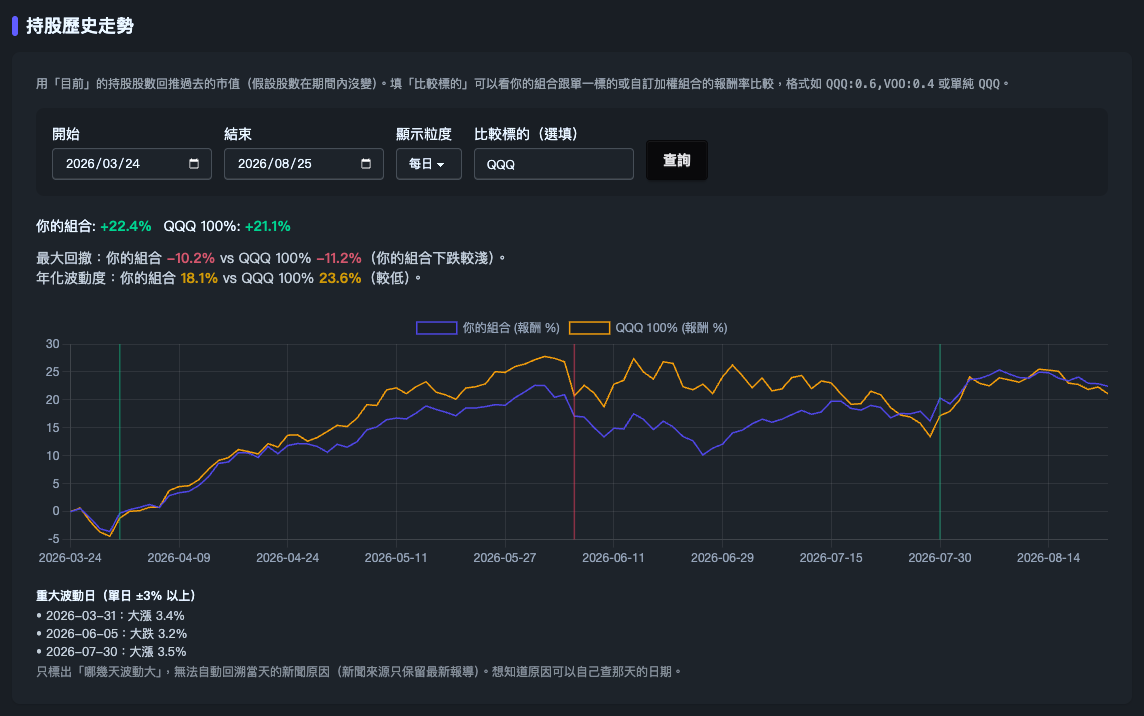
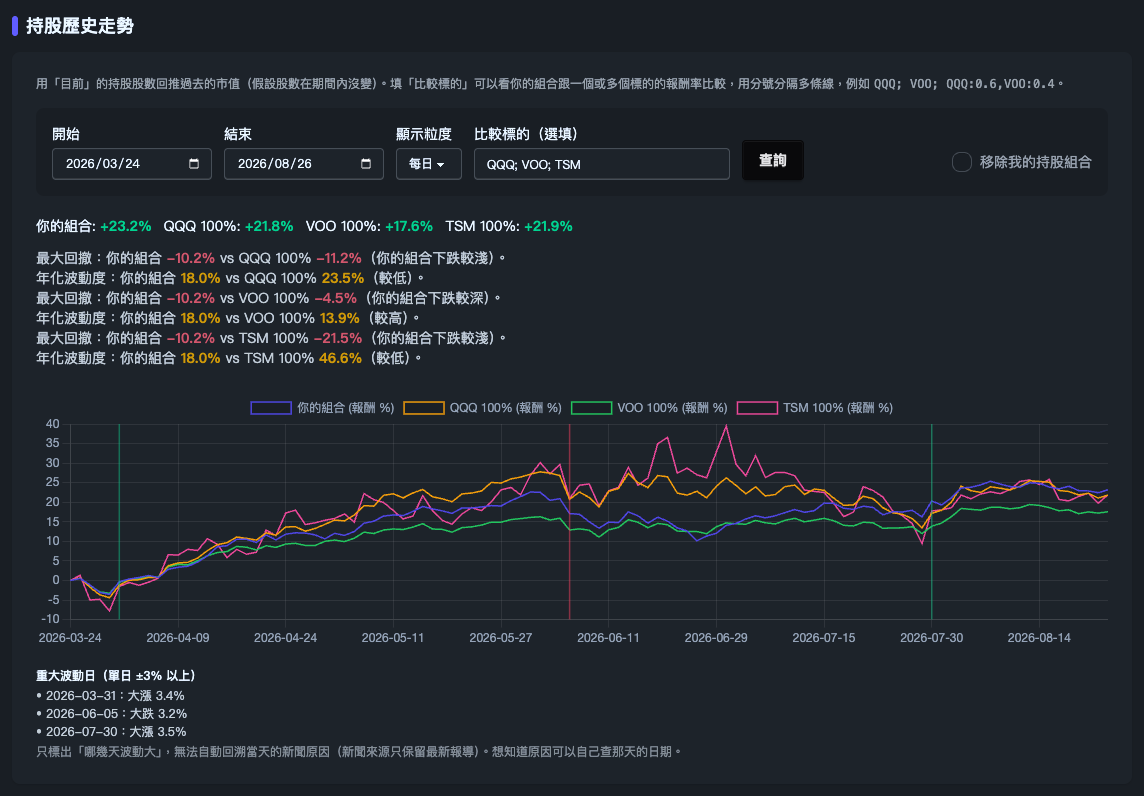
Refresh README screenshots to reflect current UI, add changelog of features added since MVP

diff --git a/README.md b/README.md
@@ -1,6 +1,6 @@
 # StockOrbit
 
-一個個人用的 Firstrade 投資組合追蹤網站：自動同步持股、依配置給出建議、對任意再平衡策略跑歷史回測，全部透過一個零建置流程的網頁儀表板操作。
+一個個人用的 Firstrade 投資組合追蹤網站：自動同步持股（含現金）、依配置給出建議、對任意再平衡策略跑歷史回測，全部透過一個零建置流程的網頁儀表板操作。
 
 ## 畫面
 
@@ -16,31 +16,32 @@
 
 ![持股與配置：持股表格、配置圓餅圖、建議、近期市場動態、目標配置](docs/screenshot-holdings.png)
 
-- 持股表格：代號、股數、買入均價、現價、市值，加上「目前佔比」跟「目標佔比」並排，偏離超過 5% 會標紅，跟下面的「目標配置」是同一份資料、改了會一起動；配置圓餅圖在表格下方，hover 會顯示每檔的市值
+- 持股表格：代號、股數、買入均價、現價（漲跌用綠/紅標示）、漲跌幅、市值，加上「目前佔比」跟「目標佔比」並排，偏離超過 5% 會標紅加粗；跟下面的「目標配置」是同一份資料、改了會一起動。配置圓餅圖在表格下方，hover 會顯示每檔的市值
 - 「建議」：依集中度跟配置偏離規則列出的提醒，不是投資建議
 - 「近期市場動態」：按查詢會抓每檔持股最近的大漲大跌（規則判斷）跟最新新聞標題（原文列出，不做利多利空判斷）
-- 「目標配置」：可以新增/編輯/刪除每檔的目標權重，權重總和要是 100%，輸入代號時有自動完成建議
+- 「目標配置」：每列同時顯示目前跟目標佔比，方便對照；可以新增/編輯/刪除每檔的目標權重，權重總和要是 100%，輸入代號時有自動完成建議
 
 ### 持股歷史走勢
 
-![持股歷史走勢：報酬率比較圖、最大回撤與波動度分析、重大波動日標註](docs/screenshot-history.png)
+![持股歷史走勢：多條比較線、最大回撤與波動度分析、重大波動日標註](docs/screenshot-history.png)
 
-用「目前」的股數回推過去市值，可選每日／每月／每季／每年顯示。填「比較標的」（可以是單一標的，或像 `QQQ:0.6,VOO:0.4` 這樣的加權組合，輸入代號時有自動完成建議）會切換成報酬率比較，並算出最大回撤跟年化波動度的比較文字。圖上的直線標出單日 ±3% 以上的「重大波動日」，滑鼠移過去會顯示當天漲跌幅——只標出哪天波動大，沒辦法自動回溯當天的新聞原因（yfinance 的新聞功能只保留最新報導，查不到歷史上某一天發生了什麼事）。
+用「目前」的股數回推過去市值，可選每日／每月／每季／每年顯示。填「比較標的」可以看你的組合跟一個或多個標的的報酬率比較，用分號分隔多條線，例如 `QQQ; VOO; QQQ:0.6,VOO:0.4`。支援任意 Yahoo Finance 代號，包括台股（例如 `0050.TW`、`00631L.TW`）。每條比較線都會算出自己的最大回撤跟年化波動度，跟你的組合逐一列出比較文字。圖上的直線標出單日 ±3% 以上的「重大波動日」，滑鼠移過去會顯示當天漲跌幅。只標出哪天波動大，沒辦法自動回溯當天的新聞原因（yfinance 的新聞功能只保留最新報導，查不到歷史上某一天發生了什麼事）。
+
+右上角「移除我的持股組合」勾選後，比較線不再受限於你持股裡最晚上市那一檔的起始日期（例如比特幣現貨 ETF 通常 2024 年才上市），可以看比較標的完整的歷史。
 
 ### 再平衡策略回測
 
-![再平衡策略回測：投組表現走勢圖、再平衡日與最大回撤標註](docs/screenshot-backtest.png)
+![再平衡策略回測：多條比較基準、不再平衡對照線、重大波動日標註](docs/screenshot-backtest.png)
 
-圖上除了投組跟比較基準，選了再平衡頻率時還會多畫一條「不再平衡」的虛線，直接看再平衡本身帶來的差異，不用手動切換重跑兩次。
-
-用「目標配置」的權重模擬過去表現，可選再平衡頻率，比較基準預設 SPY、同樣支援自訂加權組合。圖上虛線標出每次再平衡發生的日期，陰影區塊是最大回撤發生的區間。不含手續費/稅金，僅供參考，不是真實交易模擬。
+用「目標配置」的權重模擬過去表現，可選再平衡頻率。「比較基準」預設 SPY，同樣支援分號分隔的多條線跟任意加權組合（也支援台股）。圖上虛線標出每次再平衡發生的日期，陰影區塊是最大回撤發生的區間，選了再平衡頻率時還會多畫一條「不再平衡」的對照虛線，直接看再平衡本身帶來的差異。跟持股歷史走勢一樣有「移除我的持股組合」選項跟重大波動日標註。不含手續費/稅金，僅供參考，不是真實交易模擬。
 
 ## 功能
 
-- **持股同步**：透過非官方 Firstrade API 自動登入（支援 TOTP 兩步驟驗證），抓取目前帳戶持倉並存成歷史快照
-- **配置建議**：依目前持股計算集中度風險，並比對自訂的目標配置，列出偏離提醒
-- **持股歷史走勢**：用「目前」的股數回推過去市值，可選每日／每月／每季／每年顯示；也可以填一個比較標的或加權組合（如 `QQQ:0.6,VOO:0.4`），看你的組合對比大盤或任意基準的報酬率，並標出單日大漲大跌的節點
-- **再平衡策略回測**：用目標配置模擬過去表現，可選再平衡頻率（不再平衡／每月／每季／每年），比較基準同樣支援自訂加權組合；圖表會標出每次再平衡發生的日期跟最大回撤區間，並多畫一條「不再平衡」的對照線
+- **持股同步**：透過非官方 Firstrade API 自動登入（支援 TOTP 兩步驟驗證），抓取目前帳戶持倉（含未投入的現金）並存成歷史快照
+- **配置建議**：依目前持股計算集中度風險，並比對自訂的目標配置，列出偏離提醒（現金不計入集中度風險）
+- **持股歷史走勢**：用「目前」的股數回推過去市值，可選每日／每月／每季／每年顯示；「比較標的」支援多條線（分號分隔）、加權組合、任意市場代號（含台股），並算出最大回撤/年化波動度比較，標出單日大漲大跌的節點
+- **再平衡策略回測**：用目標配置模擬過去表現，可選再平衡頻率（不再平衡／每月／每季／每年），比較基準同樣支援多條線與加權組合；圖表標出每次再平衡發生的日期、最大回撤區間、重大波動日，並多畫一條「不再平衡」的對照線
+- **移除持股組合比較**：兩個走勢圖都可以只看比較標的本身，不被你持股裡最晚上市的一檔限制住最早的可比較日期
 - **近期市場動態**：規則判斷的大漲大跌提醒，加上各檔最新新聞標題（原文列出，不做利多利空判斷）
 - **台幣換算**：總市值、未實現損益都有台幣版，用即時 USD/TWD 參考匯率換算
 - **代號自動完成**：目標配置、比較標的、比較基準的輸入框都有股票代號建議
@@ -63,6 +64,7 @@ app/
   advice.py            # 配置建議邏輯
   backtest.py          # 再平衡回測引擎
   holdings_history.py  # 持股歷史走勢／加權組合比較
+  market_moves.py      # 大漲大跌偵測 + 新聞標題
   templates/
     dashboard.html      # 唯一的前端頁面
 tests/                 # 純函式的 assert-based 自我檢查（無需啟動伺服器）
@@ -105,6 +107,22 @@ cp .env.example .env   # 填入下面的環境變數
 .venv/bin/python tests/test_backtest.py
 .venv/bin/python tests/test_holdings_history.py
 ```
+
+## 更新紀錄
+
+- 持股歷史走勢／再平衡回測新增「移除我的持股組合」選項，比較線不再被持股中最晚上市的標的限制起始日期
+- 再平衡回測支援多條比較基準（分號分隔），各自列出報酬率、最大回撤、年化波動度；並新增重大波動日標註
+- 持股歷史走勢的「比較標的」從單一加權組合改成支援多條線（分號分隔）
+- 目前持股表格新增「漲跌幅」欄位、現價依漲跌上色；目標配置表格加上「目前」佔比欄
+- 總市值、未實現損益新增台幣換算（即時 USD/TWD 參考匯率）
+- 持股同步新增現金部位：改用 Firstrade 帳戶官方總值反推未投入現金，計入總市值（不計入集中度風險提醒）
+- 新增「近期市場動態」：規則判斷的大漲大跌提醒 + 各檔最新新聞標題
+- 新增代號自動完成（目標配置、比較標的、比較基準）
+- 回測圖表新增「不再平衡」對照線、再平衡日/最大回撤區間標註
+- 介面改用 daisyUI 重新設計，含深色模式；換成手繪柴犬 icon
+- 修正「每月再平衡」在月曆最後一天非交易日時會整月靜默跳過的 bug
+- 修正 Firstrade 持股欄位對應（`cost`/`last`，非文件猜測的 `cost_basis`/`last_price`）
+- MVP：Firstrade 自動登入同步、配置建議、再平衡回測、網頁儀表板
 
 ## 注意事項
 
